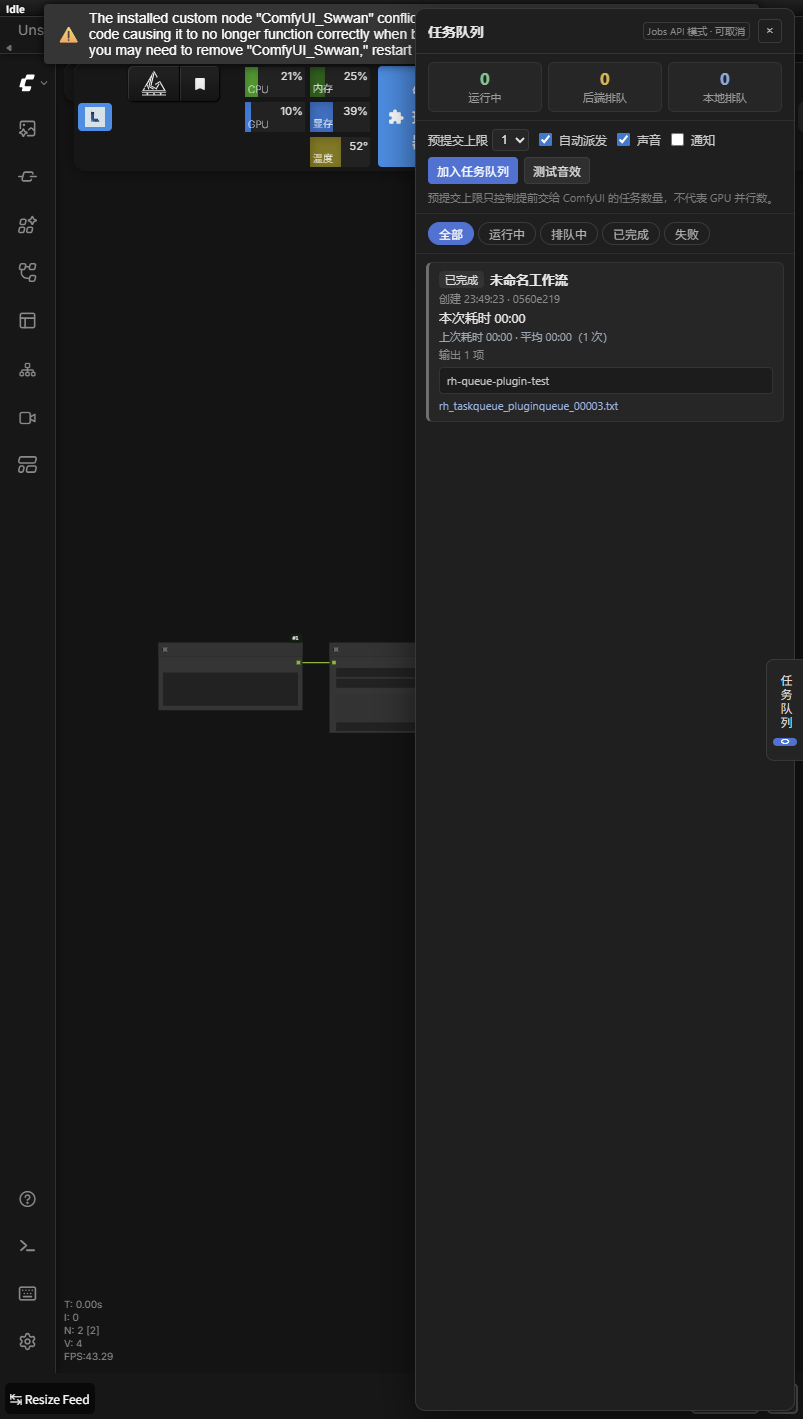
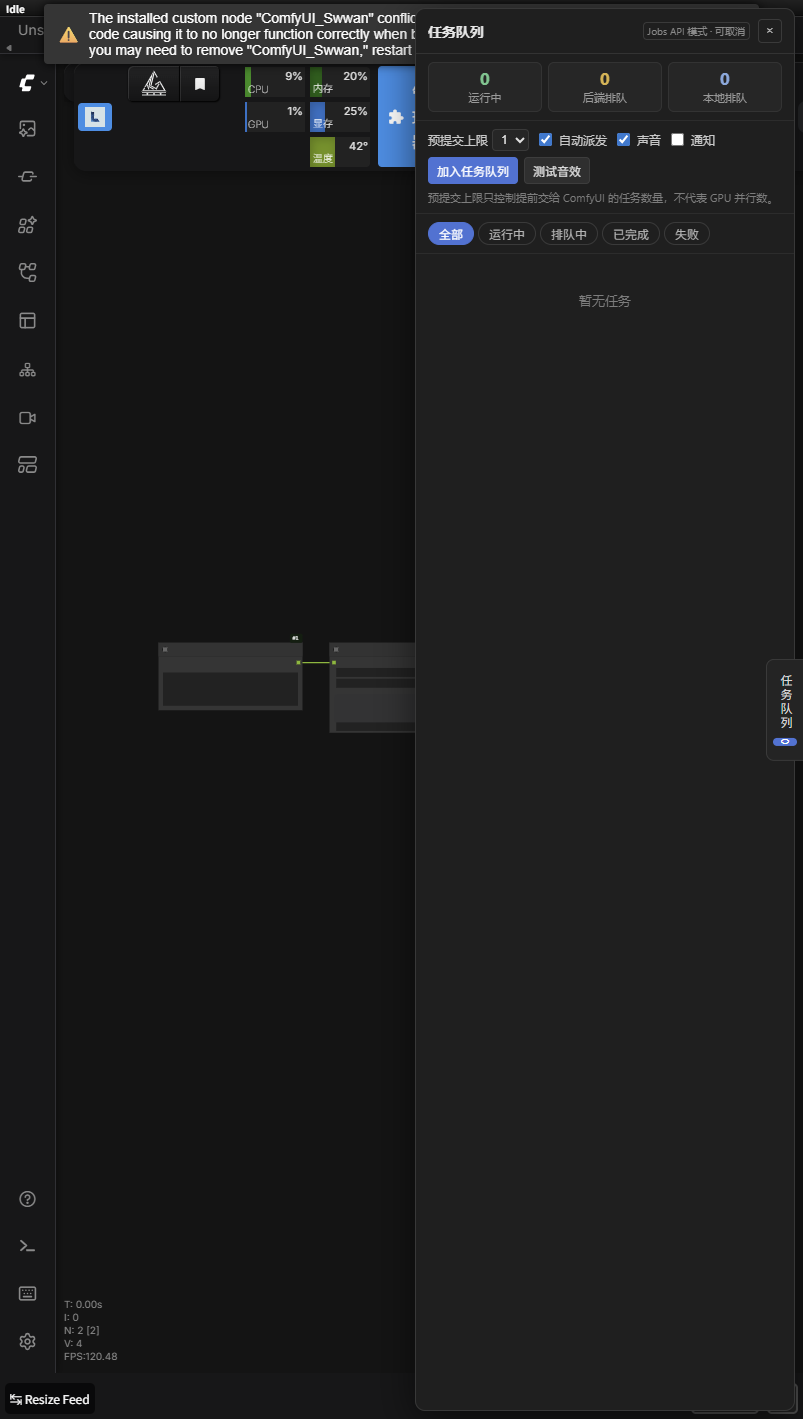
fix: 抽屉对真实鼠标点击无响应 + record 幂等边界 500
主人实测反馈：点右侧「任务队列」标签拉不开抽屉。根因不在事件绑定，而在命中测试。

B10 整个抽屉对真实点击完全无响应
- 宿主 drawer.js 设 pointer-events: none（本意是不遮挡 ComfyUI 自身 UI）
- pointer-events 是继承属性，shadow root 内没有任何一处重新打开它
- 结果：标签与面板内所有控件计算值都是 none，
  elementFromPoint(标签中心) 命中的是背后的画布，点击被画布吃掉
- 修复：标签与「打开态」面板显式 pointer-events: auto，
  「关闭态」面板保持 none
- 回归：新增 tests/js/styles.test.mjs 3 项断言

B11 /rh_queue/record 偶发 HTTP 500
- record() 幂等分支在「prompt_id 已记录、但耗时行已删」时返回 None，
  路由下标访问 record["last_duration"] → TypeError
- 修复：耗时行仍在才提前返回，行已删则继续写入样本；
  路由加防御，缺行返回 200 而非 500
- 自检脚本改用每次运行唯一的 prompt_id（此前写死 selftest-1/2，第二次跑必撞库）

验证
- 真实鼠标点击：标签开合（isOpen false→true、面板 left 811→415）、
  筛选按钮、× 关闭按钮，均生效
- elementFromPoint 由画布变为 DIV.rh-tq-host
- HTTP 层：record → 删 history 行 → 同 prompt_id 再 record = 200，sample_count=1
- pytest 11 passed / node --test 24 passed / node --check 15 files 0 failures
- verify_duration.mjs 连跑两次均 11 passed（修复前第二次必 500）

diff --git a/web/ui/styles.js b/web/ui/styles.js
@@ -37,6 +37,10 @@ export const CSS = `
   font-size: 12px;
   z-index: 10010;
   user-select: none;
+  /* The host sets pointer-events:none so it never blocks ComfyUI's own UI.
+     pointer-events is inherited, so the tab must opt back in or it is
+     invisible to real mouse clicks (elementFromPoint hits the canvas). */
+  pointer-events: auto;
 }
 .rh-tq-tab:hover { background: #2e2e2e; color: #fff; }
 .rh-tq-tab__badge {
@@ -67,8 +71,10 @@ export const CSS = `
   transform: translateX(calc(100% + 16px));
   transition: transform 0.18s ease;
   z-index: 10009;
+  /* Closed drawer stays inert; only the open panel accepts pointer events. */
+  pointer-events: none;
 }
-.rh-tq-panel.is-open { transform: translateX(0); }
+.rh-tq-panel.is-open { transform: translateX(0); pointer-events: auto; }
 
 .rh-tq-head {
   padding: 10px 12px;

diff --git a/backend/duration_store.py b/backend/duration_store.py
@@ -78,16 +78,24 @@ class DurationStore:
 
     # -- public API --------------------------------------------------------
 
-    def get(self, signature):
-        """Return the stored record for signature, or None."""
+    def _row(self, signature):
+        """Fetch one row without taking the lock.
+
+        Called from inside an open transaction where the caller already owns
+        the lock.
+        """
         if not is_valid_signature(signature):
             return None
-        with self._lock:
-            row = self._conn.execute(
-                "SELECT * FROM workflow_duration_history WHERE signature = ?",
-                (signature,),
-            ).fetchone()
+        row = self._conn.execute(
+            "SELECT * FROM workflow_duration_history WHERE signature = ?",
+            (signature,),
+        ).fetchone()
         return dict(row) if row is not None else None
+
+    def get(self, signature):
+        """Return the stored record for signature, or None."""
+        with self._lock:
+            return self._row(signature)
 
     def record(self, signature, duration, prompt_id=None, signature_version=1):
         """Store one successful execution duration and return the new row."""
@@ -110,9 +118,15 @@ class DurationStore:
                         "SELECT 1 FROM recorded_prompts WHERE prompt_id = ?", (prompt_id,)
                     ).fetchone()
                     if seen is not None:
-                        # Already counted: do not add a second sample.
-                        self._conn.execute("COMMIT")
-                        return self.get(signature)
+                        existing = self._row(signature)
+                        if existing is not None:
+                            # Already counted: do not add a second sample.
+                            self._conn.execute("COMMIT")
+                            return existing
+                        # The idempotency row outlived its duration row (the
+                        # history entry was deleted in between). Fall through
+                        # and store the sample again instead of returning
+                        # None, which used to turn into a 500 on the route.
                     self._conn.execute(
                         "INSERT OR REPLACE INTO recorded_prompts (prompt_id, signature, recorded_at) "
                         "VALUES (?, ?, ?)",

diff --git a/tests/test_duration_store.py b/tests/test_duration_store.py
@@ -117,3 +117,28 @@ def test_health_reports_counts():
         assert health["ok"] is True
         assert health["count"] == 1
         assert health["path"].endswith("h.sqlite3")
+
+
+def test_repeated_prompt_id_does_not_add_a_second_sample():
+    """The same prompt id must stay idempotent while its sample exists."""
+    with _store() as store:
+        signature = "8" * 64
+        store.record(signature, 4.0, "pid-same")
+        record = store.record(signature, 9.0, "pid-same")
+        assert record is not None
+        assert record["sample_count"] == 1
+        assert record["last_duration"] == 4.0
+
+
+def test_record_after_history_delete_still_stores_a_sample():
+    """A prompt id counted earlier must not break the store when its duration
+    row was deleted in between. This used to return None, which made the
+    /rh_queue/record route answer 500."""
+    with _store() as store:
+        signature = "9" * 64
+        store.record(signature, 5.0, "pid-dup")
+        assert store.delete(signature) is True
+        record = store.record(signature, 7.0, "pid-dup")
+        assert record is not None
+        assert record["sample_count"] == 1
+        assert record["last_duration"] == 7.0

diff --git a/backend/routes.py b/backend/routes.py
@@ -127,6 +127,17 @@ def register_routes(routes, store: DurationStore):
             return _json({"error": "duration must be >= 0"}, status=400)
         prompt_id = payload.get("prompt_id")
         record = store.record(signature, float(duration), prompt_id, version)
+        if record is None:
+            # Defensive: a missing row must not become a 500 for the frontend.
+            return _json(
+                {
+                    "ok": False,
+                    "found": False,
+                    "last_duration": None,
+                    "avg_duration": None,
+                    "sample_count": 0,
+                }
+            )
         return _json(
             {
                 "ok": True,

diff --git a/docs/verification-20261115.md b/docs/verification-20261115.md
@@ -12,7 +12,7 @@
 | 套件 | 命令 | 结果 |
 |---|---|---|
 | 后端耗时库 | `pytest tests -v` | **9 passed** |
-| 前端纯逻辑 | `node --test tests/js` | **21 passed** |
+| 前端纯逻辑 | `node --test tests/js` | **24 passed** |
 | 语法检查 | `node --check` 全量 web/*.js | **0 failures** |
 | 端到端（指纹→耗时库） | `node tests/verify/verify_duration.mjs` | **11 passed / 0 failed** |
 
@@ -32,6 +32,8 @@
 | V8 | 取消 | `POST /api/jobs/{id}/cancel` | 状态转 cancelled | 运行中任务 → `{"cancelled":true}` → `cancelled`，且**不计入耗时样本** | ✅ |
 | V9 | 预提交上限 + FIFO | 连入 3 任务，上限=1 | 一次只放行 1 个，终态后放行下一个 | 时间线：`inFlight` **始终 ≤ 1**，严格 1→2→3 派发，t=1.6s 与 t=2.6s 各释放一个名额 | ✅ |
 | V10 | 刷新恢复 | 刷新页面 | 本地队列与后端任务都恢复 | IndexedDB 中的 2 个待派发任务刷新后仍在，排队计时跨刷新继续（01:11→01:17） | ✅ |
+| V11 | **真实点击交互**（补测） | 浏览器**真实鼠标点击**（非调试钩子） | 标签能开合抽屉、面板内控件可点 | 标签点击：`isOpen` false→true、面板 `left` 811→415（滑入视口）；筛选按钮真实点击后 `is-active` 移到「已完成」；× 真实点击关闭抽屉（`isOpen`→false）；`elementFromPoint(标签中心)` 由画布变为 `DIV.rh-tq-host` | ✅ |
+| V12 | 后端幂等边界（补测） | 同 `prompt_id` 重复上报，且耗时行已被删 | 不应 500，应重新计入样本 | HTTP 实测：record → 删 history 行 → 同 `prompt_id` 再 record，返回 **200** `{"ok":true,…,"sample_count":1}`（修复前是 HTTP 500 `TypeError: 'NoneType' object is not subscriptable`）；`verify_duration.mjs` 连跑两次均 11 passed | ✅ |
 
 ---
 
@@ -48,6 +50,12 @@
 | B7 | 文本输出被当成文件名渲染成坏链接 | `outputs[node].text` 是裸字符串数组，不是文件名 | 裸字符串按文本正文渲染，文件项才走 `/view` |
 | B8 | 刷新后历史任务被重复记样本 | 重建视图时会再次上报同一批 job | 后端新增 `recorded_prompts` 幂等表，按 prompt_id 去重 |
 | B9 | 详情里的 `workflow.prompt` 被合并丢弃 | `mergeRecord` 的字段白名单漏了 `workflow` | 白名单补上，指纹才能从 job 详情重算 |
+| B10 | **整个抽屉对真实鼠标点击完全无响应**（主人实测反馈：点右侧「任务队列」拉不开） | 宿主 `drawer.js` 设有 `pointer-events: none`（本意是不遮挡 ComfyUI 自身 UI），但 `pointer-events` 是**继承属性**，shadow root 内没有任何一处重新打开它 ⇒ 标签与面板内所有控件的计算值都是 `none`，`elementFromPoint(标签中心)` 直接命中背后的画布，点击被画布吃掉 | 标签与「打开态」面板显式 `pointer-events: auto`，「关闭态」面板保持 `none`；新增 `tests/js/styles.test.mjs` 3 项回归断言 |
+| B11 | `/rh_queue/record` 偶发 **HTTP 500** | `record()` 的幂等分支在「`prompt_id` 已记录、但耗时行已被删除」时返回 `None`，路由随后直接下标访问 `record["last_duration"]` → TypeError | 幂等分支改为「耗时行仍在才提前返回，行已删则继续写入样本」；路由再加一层防御，缺行返回 200 而非 500；自检脚本改用**每次运行唯一**的 `prompt_id`（此前写死 `selftest-1/2`，第二次跑必然撞库） |
+
+> **教训**：V7–V10 全部通过调试钩子**程序化驱动 DOM** 验证，**一次真实鼠标点击都没做过**，所以整块 UI 的命中测试从没被覆盖。指针事件类缺陷只能靠真实输入派发发现，读 DOM 状态是看不出来的。
+>
+> 另一个教训：**验证脚本本身必须可重复运行**。`verify_duration.mjs` 第一次跑全绿，第二次跑就 500 —— 撞的是它自己写死的 `prompt_id`。重跑一次全量验证，才把 B11 这个后端边界缺陷逼出来。
 
 ---
 
@@ -56,4 +64,5 @@
 - 浏览器通知的**实际弹出**未做系统级验证（自动化环境无法确认系统通知横幅）；音效逻辑单测通过，"测试音效"按钮会在用户手势内解锁 AudioContext。
 - 多标签页 leader 租约的**竞争切换**未做双标签实测（当前是单标签验证）。
 - Legacy（`/queue`+`/history`）适配器只做了代码级实现，本机 ComfyUI 0.45.0 有 Jobs API，未触发回退路径。
+- 「加入任务队列」按钮**未做真实点击**（会真实提交主人当前画布上的工作流并消耗 GPU）；其可点性由 V11 中面板计算值为 `pointer-events: auto` 间接覆盖。
 - 真实多实例并行（Phase 5）不在本轮范围。
